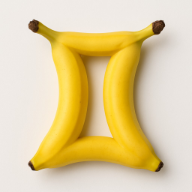
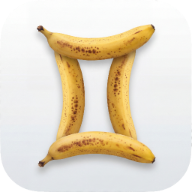
feat(backend): add person_generation parameter to reduce safety filter blocks
- Add person_generation="allow_adult" to Generate, Edit, and Compose endpoints
- Addresses increased image generation failures from tightened safety filters
- Update favicon links for better PWA/mobile support
- Update branding assets (favicons, app icons)
- Restructure Serena project configuration

diff --git a/frontend/index.html b/frontend/index.html
@@ -2,7 +2,10 @@
 <html lang="en">
   <head>
     <meta charset="UTF-8" />
-    <link rel="icon" type="image/x-icon" href="/favicon.ico" />
+    <link rel="apple-touch-icon" sizes="180x180" href="/apple-touch-icon.png">
+    <link rel="icon" type="image/png" sizes="32x32" href="/favicon-32x32.png">
+    <link rel="icon" type="image/png" sizes="16x16" href="/favicon-16x16.png">
+    <link rel="manifest" href="/site.webmanifest">
     <meta name="viewport" content="width=device-width, initial-scale=1.0" />
     <title>GemFlash - AI Image Editor</title>
   </head>

diff --git a/static/index.html b/static/index.html
@@ -2,7 +2,10 @@
 <html lang="en">
   <head>
     <meta charset="UTF-8" />
-    <link rel="icon" type="image/x-icon" href="/favicon.ico" />
+    <link rel="apple-touch-icon" sizes="180x180" href="/apple-touch-icon.png">
+    <link rel="icon" type="image/png" sizes="32x32" href="/favicon-32x32.png">
+    <link rel="icon" type="image/png" sizes="16x16" href="/favicon-16x16.png">
+    <link rel="manifest" href="/site.webmanifest">
     <meta name="viewport" content="width=device-width, initial-scale=1.0" />
     <title>GemFlash</title>
   </head>

diff --git a/backend/main.py b/backend/main.py
@@ -208,7 +208,8 @@ Output: Return ONLY the final generated image. Do not return text."""
                     response_modalities=["IMAGE", "TEXT"],
                     image_config=types.ImageConfig(
                         aspect_ratio=request.aspect_ratio,
-                        image_size=request.output_resolution
+                        image_size=request.output_resolution,
+                        person_generation="allow_adult"
                     )
                 )
             )
@@ -407,7 +408,8 @@ Output: Return ONLY the final edited image. Do not return text."""
                 response_modalities=["IMAGE", "TEXT"],
                 image_config=types.ImageConfig(
                     aspect_ratio=aspect_ratio,
-                    image_size=output_resolution
+                    image_size=output_resolution,
+                    person_generation="allow_adult"
                 )
             )
         )
@@ -514,7 +516,8 @@ Output: Return ONLY the final composed image. Do not return text."""
                 response_modalities=["IMAGE", "TEXT"],
                 image_config=types.ImageConfig(
                     aspect_ratio=aspect_ratio,
-                    image_size=output_resolution
+                    image_size=output_resolution,
+                    person_generation="allow_adult"
                 )
             )
         )
